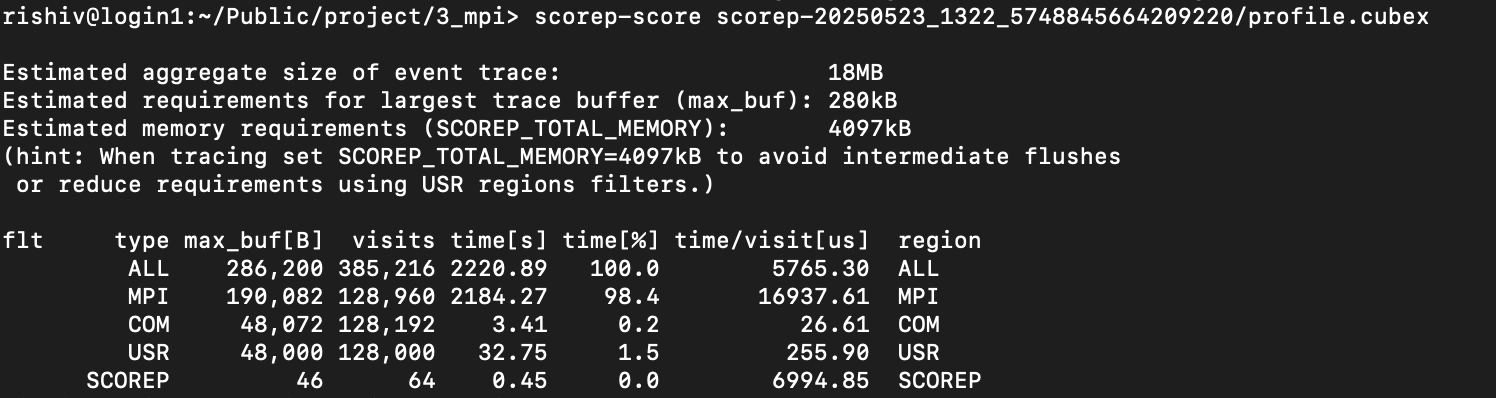
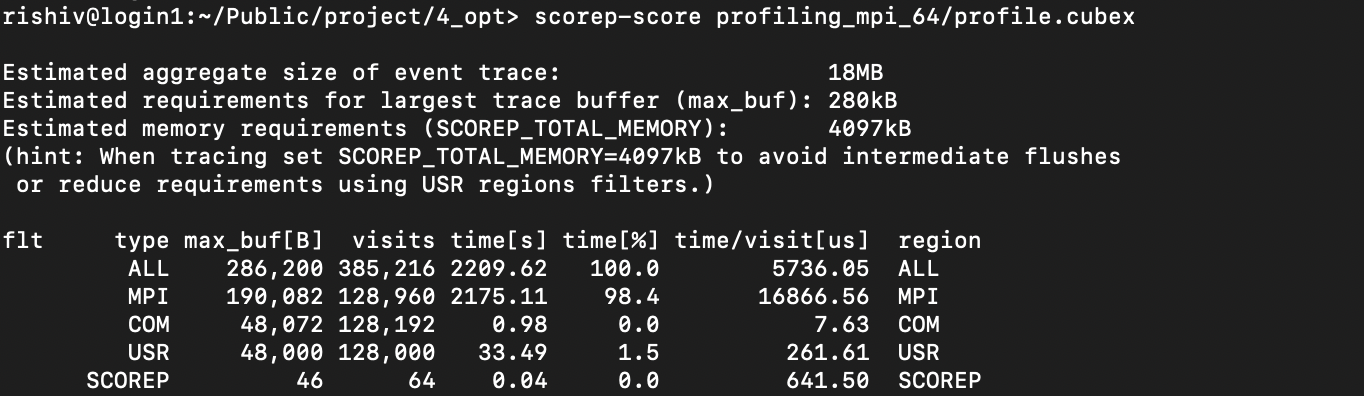
docs(proj): blocking mpi section of report

diff --git a/5_project/report/project.tex b/5_project/report/project.tex
@@ -2,10 +2,10 @@
 \usepackage[utf8]{inputenc}
 \usepackage[a4paper,
             bindingoffset=0.2in,
-            left=1in,
-            right=1in,
-            top=1in,
-            bottom=1in,
+            left=0.5in,
+            right=0.5in,
+            top=0.5in,
+            bottom=0.5in,
             footskip=.25in]{geometry}
 
 %###############################################################################
@@ -193,7 +193,7 @@
 %
 
 \section*{Prefix}
-The code for our project can be found at this location: \url{}. 
+The code for our project can be found at this location: \url{https://github.com/paulmyr/DD2356-MethodsHPC/tree/master/5_project}. 
 
 \tableofcontents
 \newpage
@@ -206,6 +206,56 @@ The code for our project can be found at this location: \url{}.
 \section{OpenMP GPU Hand-off}
 
 \section{Parallelism through MPI}
+\subsection{Implementation Description}
+The code for this section is present in the \verb|3_mpi| directory. To parallelize the serial code with the use of MPI, we first initialize the global \verb|E| and \verb|H| grids with the process with rank 0. This is followed by a scattering of this global grid to all processes in the method present \href{https://github.com/paulmyr/DD2356-MethodsHPC/blob/master/5_project/3_mpi/fdtd_mpi.c#L25}{here} in the \verb|fdtd_mpi.c| file. This scattering occurs over a 1D cartesian communicator, which is first created with the help tof \verb|MPI_Cart_create|. 
+
+After this, the following three steps are performed at each step of the update-loop:
+\begin{itemize}
+\item \underline{Halo-Exchange for E}: Each process sends the first value of the chunk assigned to it to its left neighbour and receives a value in return from its right neighbour. This is done through the blocking \verb|Sendrecv| method to make the exchange easier to reason about. 
+\item \underline{Compute H}: The update for the \verb|H| array are performed. These would have required the most up-to-date values for \verb|E|, which is why the halo exchange for \verb|E| occurred in the previous step. We take special care of the boundary condition for \verb|H| when the process performing the update is responsible for the last chunk of \verb|H|.
+\item \underline{Halo-Exchange for H}: Each process sends the last value of its updated \verb|H| chunk to its right neighbour and receives a value from its legt neighbour. This is done in an analogous way to the halo-exchange for \verb|E|. 
+\item \underline{Compute E}: We finally update the contents of \verb|E|, using the updated values from the \verb|H| ghost cells received in the previous step. This is done in an analogous manner to the updates to \verb|H|, with care taken of the boundary condition in case the process is updating the last chunk of E. 
+\end{itemize}
+
+Note that here, all halo-cell exchanges are performed through \underline{blocking, synchronous} communication. Finally, once the computation loop is complete, we add a barrier to ensure that all processes agree to completing all steps of the computation before proceeding. After this barrier, we gather the results of the local \verb|E| and \verb|H| arrays from each process in to a global \verb|E| and \verb|H| grid (respectively) at the rank 0 process in \href{https://github.com/paulmyr/DD2356-MethodsHPC/blob/master/5_project/3_mpi/fdtd_mpi.c#L108}{this} function. This can then be printed to file for diagnostic purposes if needed. The full-code for our implmenetation briefly described above can be found in the \verb|fdtd_mpi.c| file \href{https://github.com/paulmyr/DD2356-MethodsHPC/blob/master/5_project/3_mpi/fdtd_mpi.c}{here}.
+
+\subsection{Strong and Weak Scaling + Communication Overhead}
+
+\begin{figure}
+     \centering
+     \begin{subfigure}[b]{0.45\textwidth}
+         \centering
+         \includegraphics[width=\textwidth]{../images/3_mpi/strong_scaling.png}
+         \caption{Strong Scaling (6.4 mil, 1k iters)}
+         \label{fig:3_mpi_strong_scaling}
+     \end{subfigure}
+     \hfill
+     \begin{subfigure}[b]{0.45\textwidth}
+         \centering
+         \includegraphics[width=\textwidth]{../images/3_mpi/weak_scaling.png}
+         \caption{Weak Scaling (100k/process, 1k iters)}
+         \label{fig:3_mpi_weak_scaling}
+     \end{subfigure}
+     \caption{Strong and Weak Scaling (MPI) }
+     \label{fig:3_mpi_strong_weak}
+\end{figure}
+
+The strong and weak scaling plot for the implementation can be found in Figure \ref{fig:3_mpi_strong_weak}. The configurations used to generate these runtimes can be found in the \verb|run_strong_scaling.sh| and \verb|run_weak_scaling.sh| files. The outputs plotted are the average runtimes over 3 runs. The raw runtimes can be found in the \verb|dardel_runtimes| directory of the repository. 
+
+From Figure \ref{fig:3_mpi_strong_scaling}, we see worse runtimes for 1 or 2 processes, which could be attributed to the freater MPI overhead compared to the benefits of the limited parallelism through 1 or 2 processes. As the number of processes increase, the runtimes are marginally better -- achieving their lowest at 4 processes and then increasing till they get slightly worse at 64 processes. This trend indicates that the benefits of parallelism start to diminish as the number of processes increase, likely because of greater MPI overhead (halo-exchange, barrier at the end of the compute-loop, etc). Thus, a balance is struck at 4 processes between MPI overhead and parallelism which is optimal. However, there isn't a big variation in the runtimes at $\geq$ 4 processes. Thus, it could be the case that a different run could give better runtimes at 8 processes instead of 4. However, the sharp decline in runtime from 2 to 4 processes shows the promise of MPI parallelism if we use 4-8 processes. 
+
+Figure \ref{fig:3_mpi_weak_scaling} shows that after a sharp increase in runtime going from 1 to 2 processes, the runtime seems to be in the stable 29-33 second range for all process counts. The ideal scenario for a weak-scaling test would be to have runtimes remain stable as the problem size increases -- as this would indicate that larger problems can be solved with the help of larger resources. Except for the jump on going from 1 to 2 processes (because of the MPI overhead with regards to blocking halo-exchanges, etc), we see this ideal trend we hoped for in the weak-scaling test. 
+
+\begin{figure}[H]
+  \centering
+  \includegraphics[width=0.9\textwidth]{../images/4_opt/scorep_64_mpi.png}
+  \caption{ScoreP on MPI (6.4 Million Elements, 1k Iters, 64 Processes, 1 Node)}
+  \label{fig:3_mpi_scorep_64}
+\end{figure}
+
+In addition to these tests, we profiled this MPI implementation with ScoreP to get an idea of communication overhead involved with halo-exchanges, using 6.4 million elements and 1k iterations with 64 processes on 1 Node. The results of this can be seen in Figure \ref{fig:3_mpi_scorep_64}. 
+
+We notice a considerably large amount of time being spent in the \verb|MPI| portion of code at a staggering $98.4\%$ of the total time and an incredibly high \verb|time/visit|. The MPI calls done in the compute-loop we are interested in are the blocking \verb|Sendrecv| communication calls for halo-exchanges. Thus, this indicates that because of its blocking nature, each \verb|Sendrecv| call is costing a significant amount of time, bumping up the communication overhead and thus the runtime (total time and time per visit) for the MPI section. In comparison, the \verb|USR| section has a similar number of visits but a drastically lower time spent per visit. This might also explain why we did not see a significant improvement in runtime compared to the serial version as the number of processes increase -- any benefit gained from parallelism was likely countered by the overhead of blocking communication between more processes. Thus, performing halo exchanges in a non-blocking manner could lead to some improvements, which is what guided our optimization strategy in the next section.
 
 \section{Optimizing MPI Parallelism}
 
